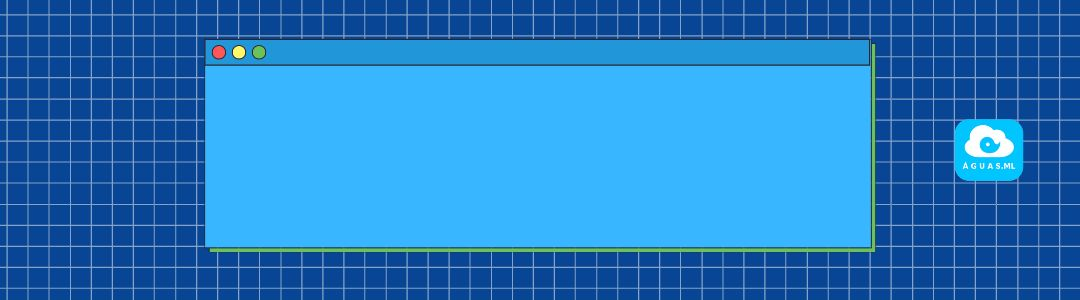
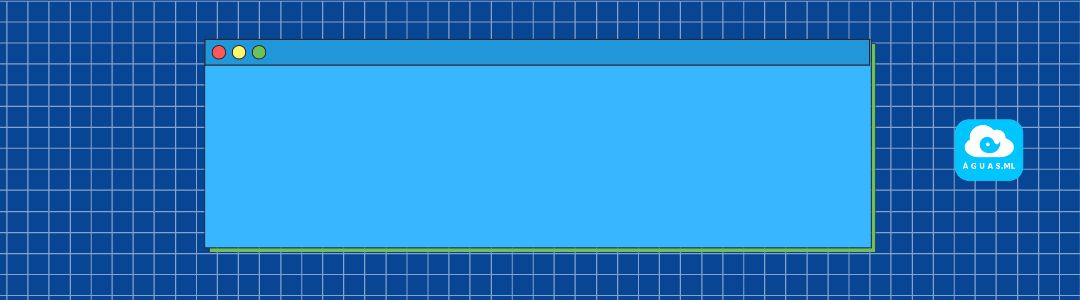
novo azul

diff --git a/css/recon.css b/css/recon.css
@@ -19,7 +19,7 @@ body {
 }
 /* cor da barra de navegação */
 .navbar-custom {
-  background: #4054B2;
+  background: #084594;
 }
 /* cor dos títulos */
 .h1, h1 {
